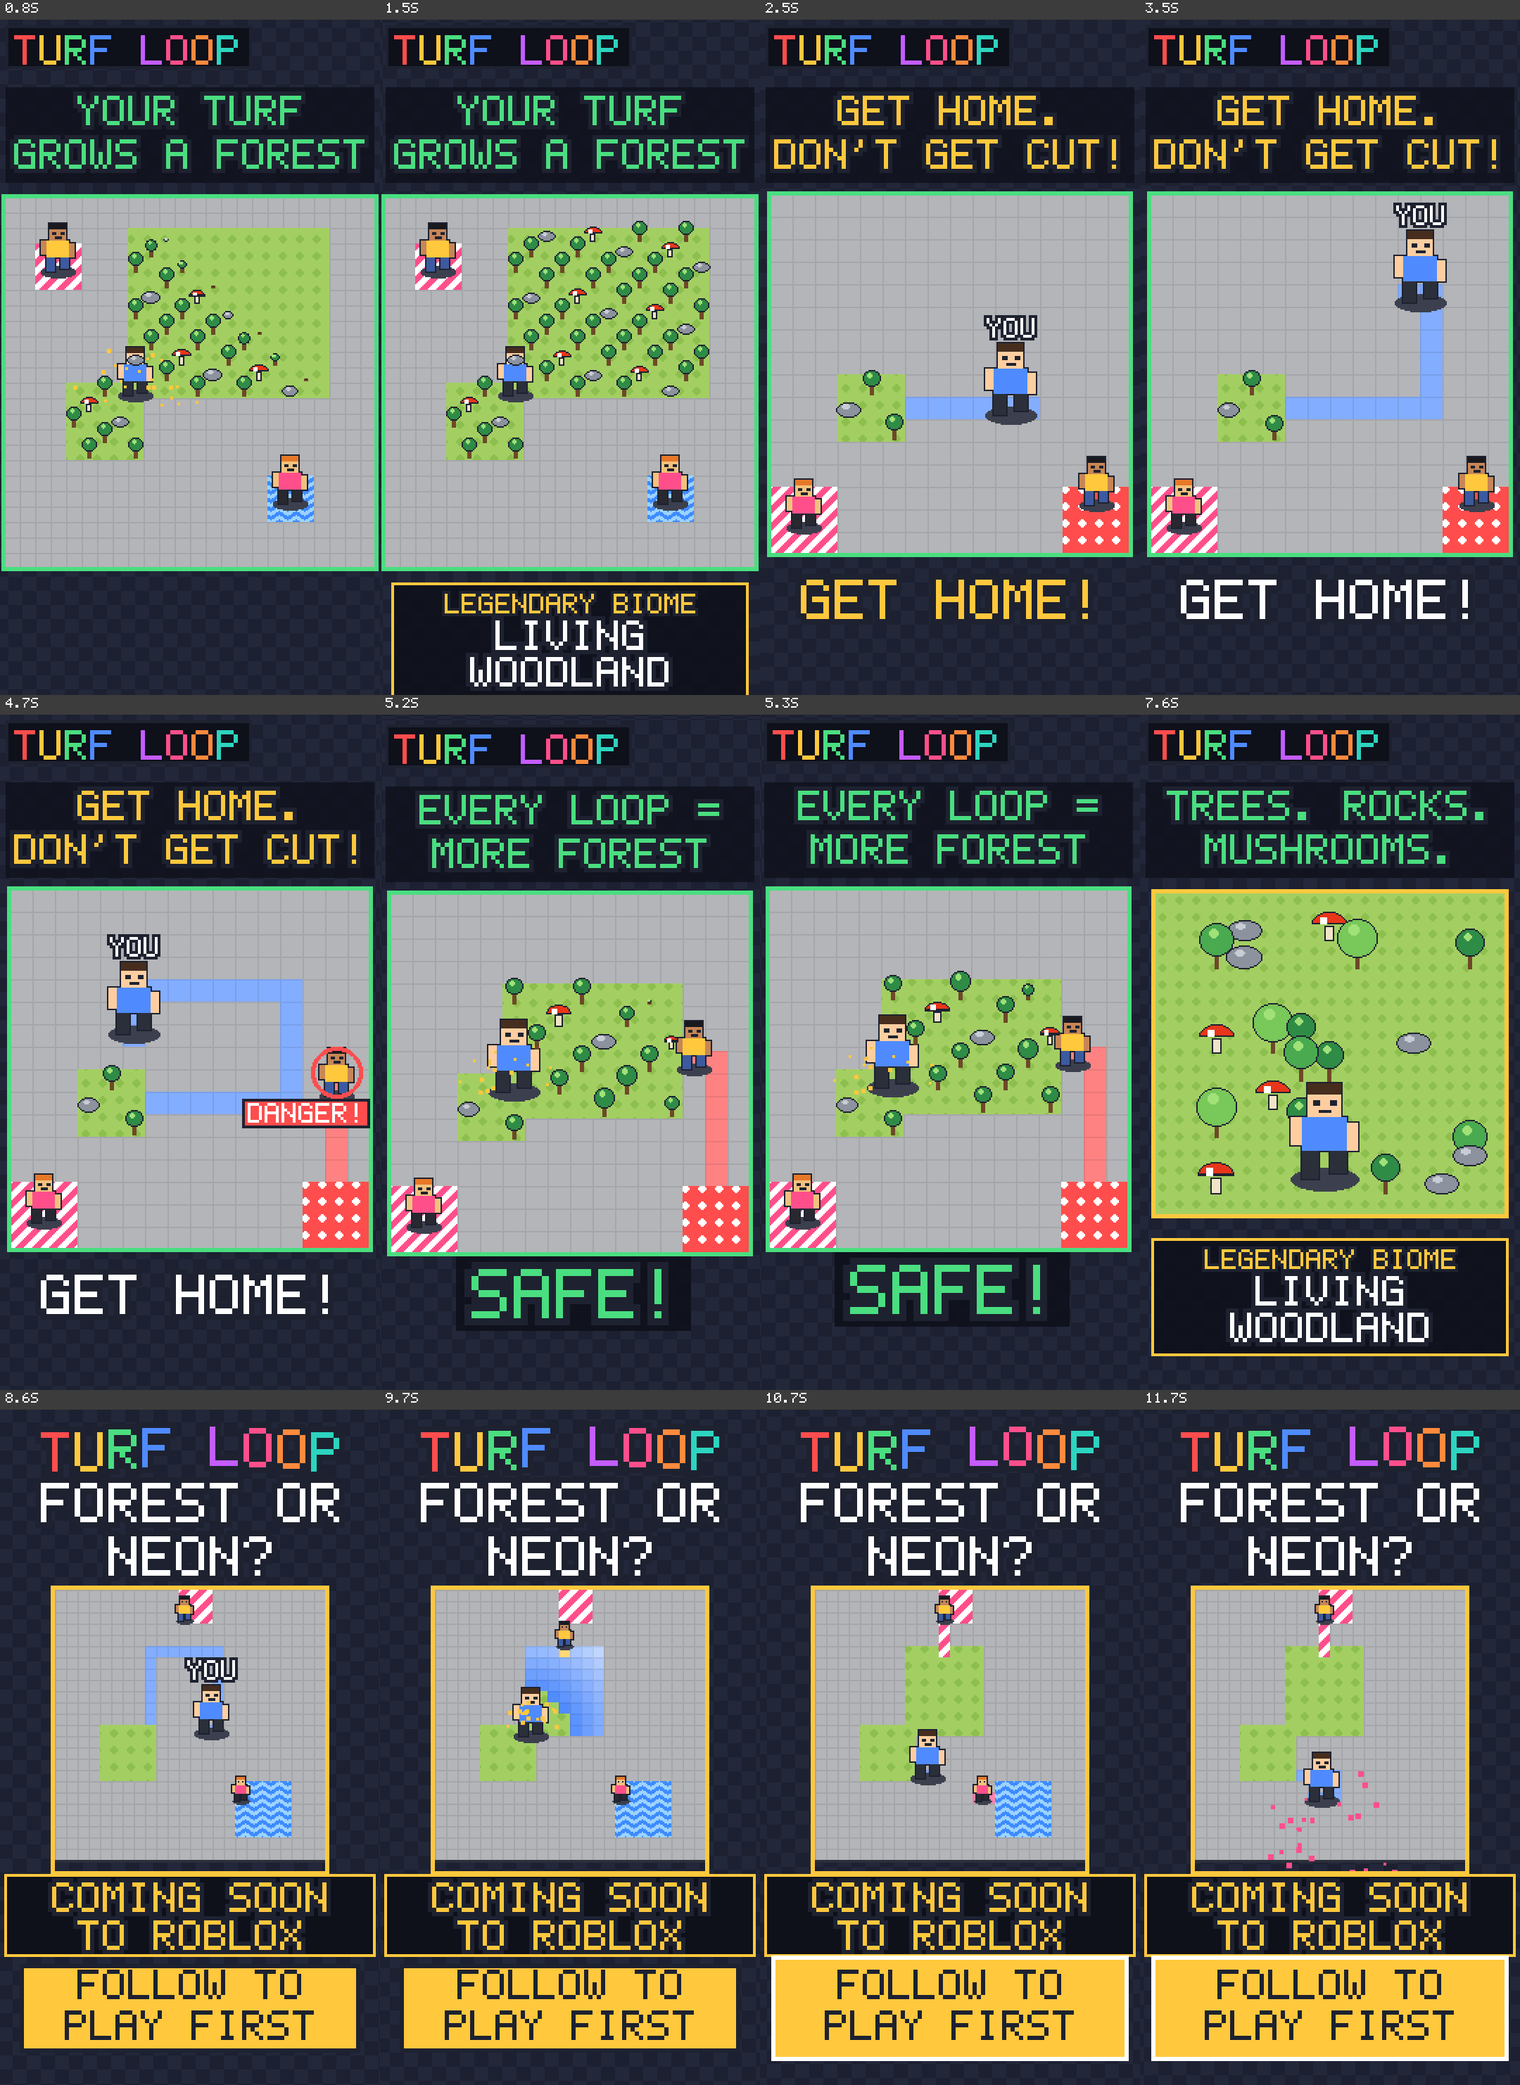
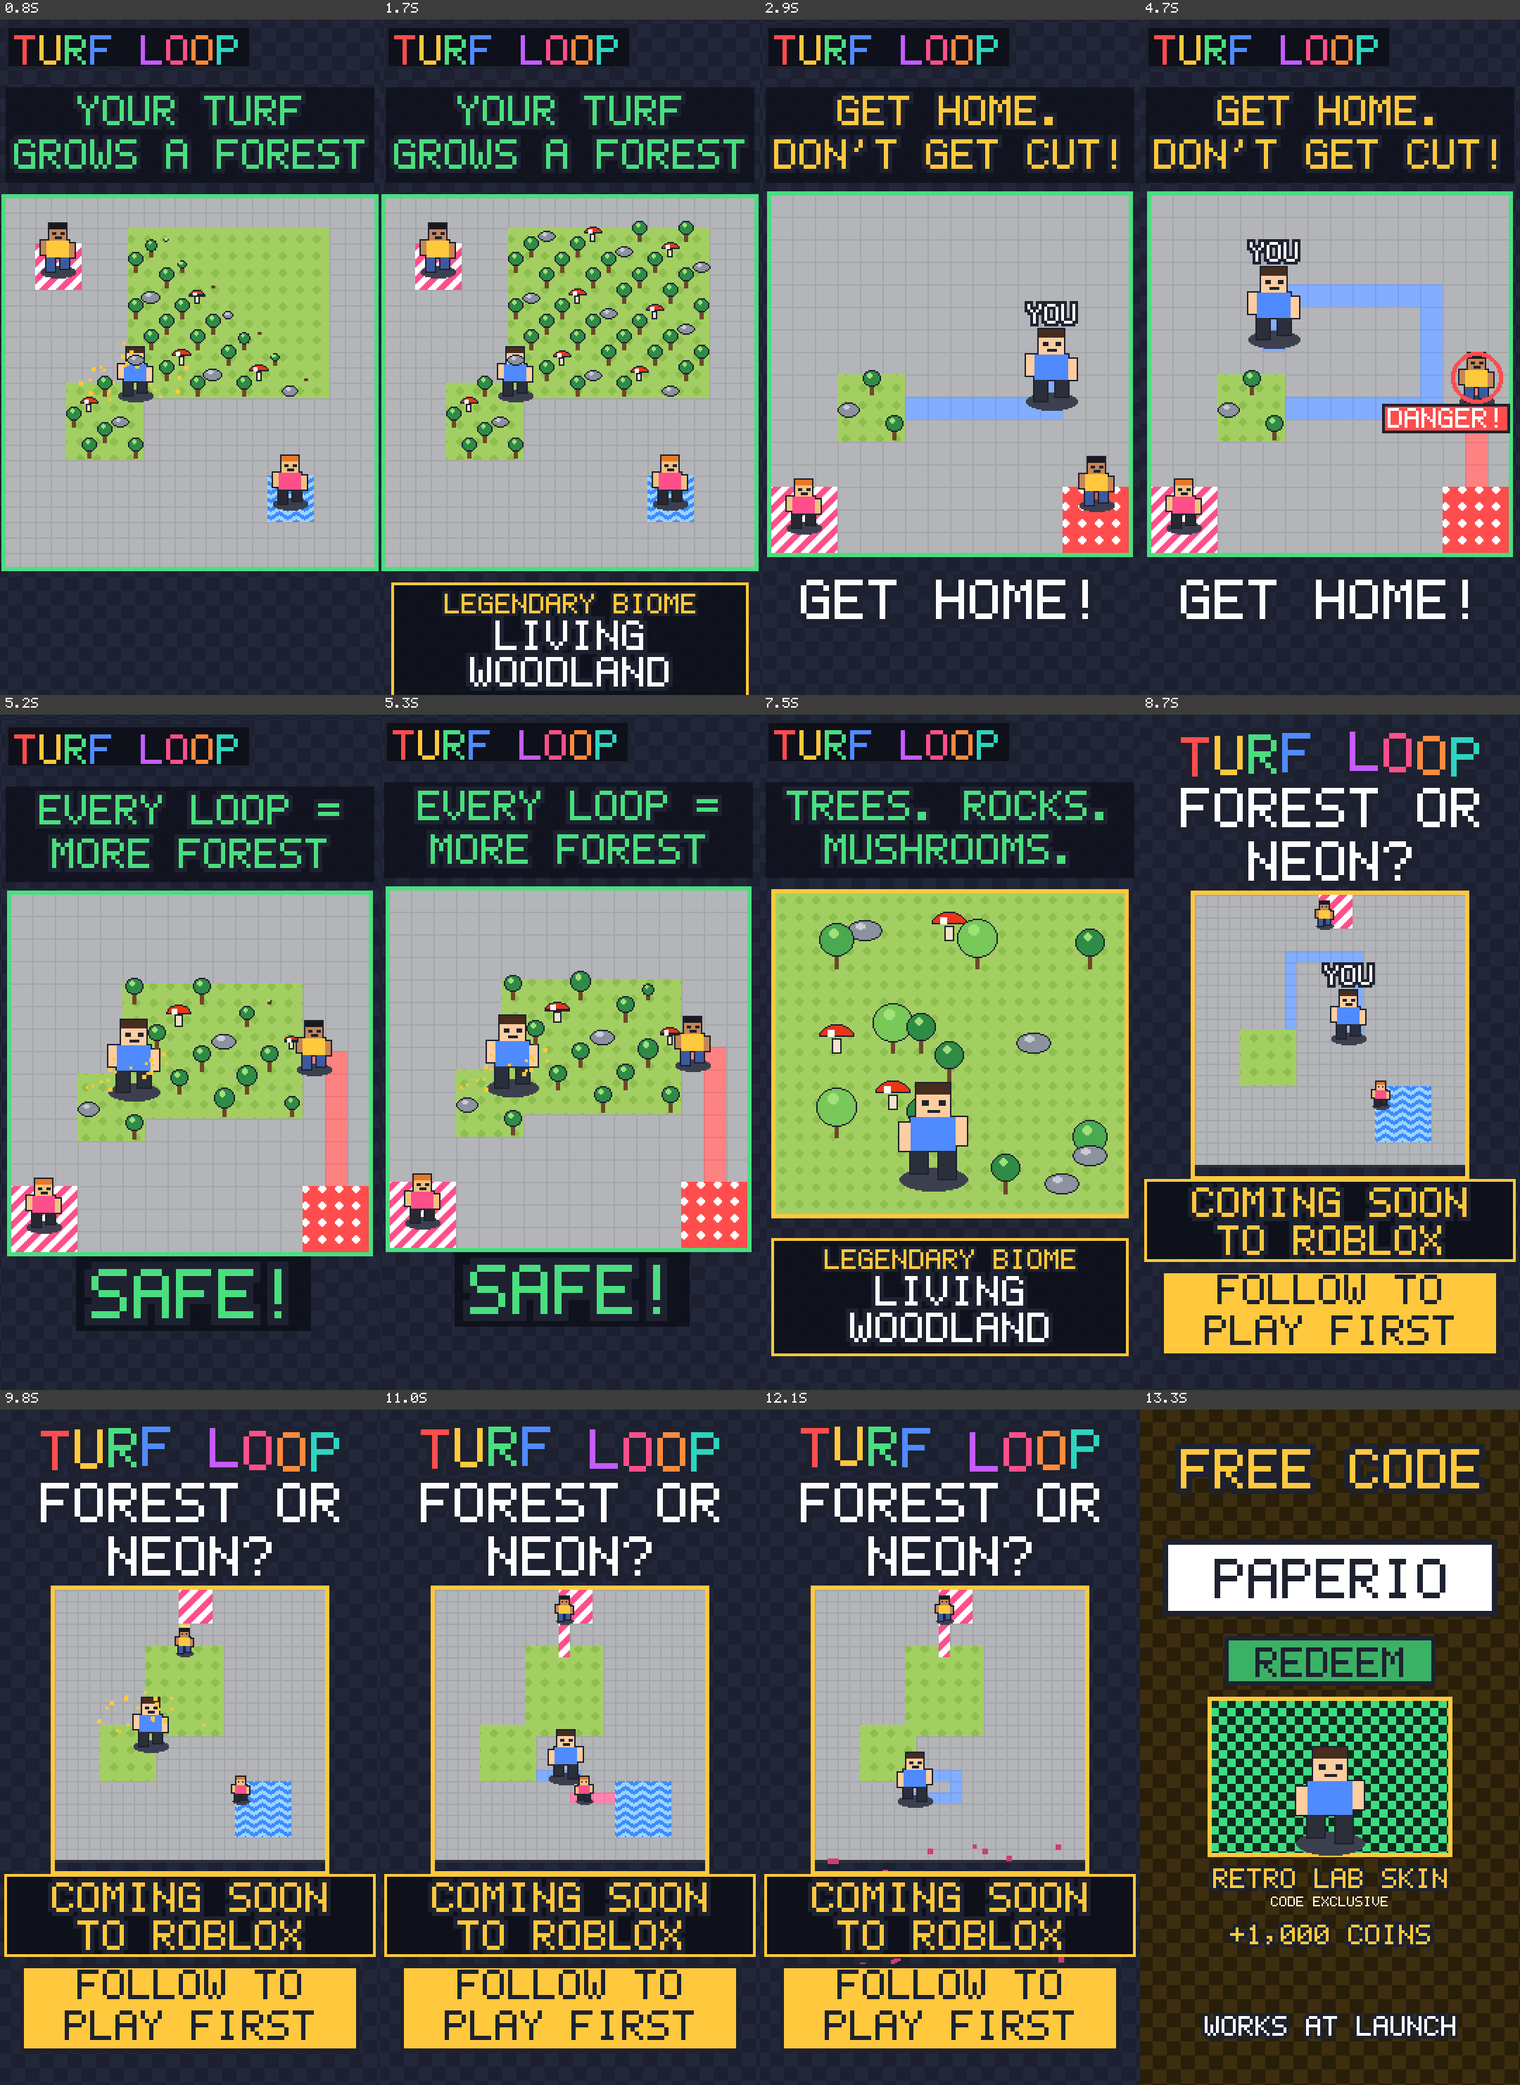
Promo codes: code card at the end of every short (PAPERIO/NEONRUSH/KINGME/BIGLOOP), c01 launch codes video; queue the in-game codes as HANDOFF item 0

diff --git a/tools/video/hype.py b/tools/video/hype.py
@@ -812,6 +812,89 @@ def avatar_end(v, b0, b1, skin=("#FF2E9A", "#00F0FF", "stripes", "pulse"), line=
     v.scene(b0, b1, fn, "end card: logo, COMING SOON TO ROBLOX, live looping mini-match, pulsing FOLLOW TO PLAY FIRST" + (f", {ask}" if ask else ""))
     v.sound(b0, "hit")
     v.sound(b0 + 0.02, "crown")
+    for hk in END_HOOKS:
+        hk(v, b1)
+
+
+# ------------------------------------------------------------ promo codes (owner 2026-11-22). NOT IN THE GAME YET:
+# docs/HANDOFF.md queue item "Promo codes from the videos" adds them (item rewards + 3 code-only cosmetics).
+PROMO_CODES = {  # code -> (item label, item kind, colours a/b, pattern, anim, coins, gems)
+    "PAPERIO": ("RETRO LAB SKIN", "skin", "#3DDC84", "#0F2A1A", "checker", None, 1000, 0),
+    "NEONRUSH": ("RUSH HOUR TRAIL", "trail", "#FF2E9A", "#FFE14D", "stripes", "flow", 0, 25),
+    "KINGME": ("ROYAL CARPET SKIN", "skin", "#B3261E", "#FFC83D", "stars", None, 0, 25),
+    "BIGLOOP": (None, None, None, None, None, None, 2500, 0),
+}
+CODE_FOR = {  # video id -> code (one code per theme, so redemptions show which kind of video brings players)
+    "v01": "PAPERIO", "v04": "PAPERIO", "s01": "PAPERIO", "s02": "PAPERIO", "s07": "PAPERIO", "s08": "PAPERIO",
+    "s13": "PAPERIO", "s14": "PAPERIO",
+    "s03": "NEONRUSH", "s11": "NEONRUSH", "s12": "NEONRUSH", "s15": "NEONRUSH",
+    "v07": "KINGME", "s04": "KINGME", "s05": "KINGME", "s06": "KINGME", "s10": "KINGME",
+    "v02": "BIGLOOP", "v03": "BIGLOOP", "v05": "BIGLOOP", "v06": "BIGLOOP", "s09": "BIGLOOP", "s16": "BIGLOOP",
+}
+CODE_BEATS = 3
+
+
+def draw_code(img, v, code, tl, tg):
+    """Pixel code box: the code types in on 16ths, REDEEM is pressed, the reward pops."""
+    label, kind, a, b, pat, anim, coins, gems = PROMO_CODES[code]
+    bg_checker(img, tg, c1=(40, 30, 10), c2=(60, 46, 14), speed=18)
+    d = ImageDraw.Draw(img)
+    draw_lines(img, "FREE CODE", 44, 4, YELLOW, DARK)
+    d.rectangle((16, 92, W - 17, 146), fill=WHITE, outline=DARK, width=4)
+    n = min(len(code), int(tl / (v.spb / 4)) + 1)
+    cur = "_" if int(tg * 4) % 2 == 0 and n < len(code) else ""
+    draw_text(img, code[:n] + cur, W / 2, 106, 4 if len(code) <= 8 else 3, DARK, None)
+    pressed = tl >= v.b(1.25)
+    g = 3 if pressed else 0
+    d.rectangle((60, 158 + g, W - 61, 192 + g), fill=shade(GREEN, 0.8) if pressed else GREEN, outline=DARK, width=3)
+    draw_text(img, "REDEEM", W / 2, 166 + g, 3, DARK, None)
+    if tl >= v.b(1.5):
+        k = ease_back(min(1.0, (tl - v.b(1.5)) / 0.25))
+        y = 206
+        if kind:
+            w_, h_ = int(170 * k), int(110 * k)
+            if w_ > 4:
+                pad = skin_board(w_, h_, a, b, pat, anim, tg)
+                img.paste(pad, (int(W / 2 - w_ / 2), y))
+                d.rectangle((W / 2 - w_ / 2 - 2, y - 2, W / 2 + w_ / 2 + 1, y + h_ + 1), outline=GOLD, width=3)
+                avatar(img, W / 2, y + h_ - 8, ((255, 206, 160), (70, 45, 30), (79, 139, 255), (43, 47, 58)), tg, moving=True, s=4)
+            draw_text(img, label, W / 2, y + 118, 2, GOLD, DARK)
+            draw_text(img, "CODE EXCLUSIVE", W / 2, y + 140, 1, CREAM, None)
+            y += 158
+        else:
+            y += 30
+        chips = ([f"+{coins:,} COINS"] if coins else []) + ([f"+{gems} GEMS"] if gems else [])
+        for i, c in enumerate(chips):
+            draw_text(img, c, W / 2, y + i * 30, 3 if not kind else 2, YELLOW if "COINS" in c else GEM, DARK)
+        if not kind:
+            for j, (dx, dy) in enumerate(((-34, 18), (34, 18), (0, 0))):  # a little pile of game coins
+                d.ellipse((W / 2 + dx - 26, 330 + dy, W / 2 + dx + 26, 382 + dy), fill=YELLOW, outline=DARK, width=4)
+                d.ellipse((W / 2 + dx - 14, 342 + dy, W / 2 + dx + 14, 370 + dy), outline=shade(YELLOW, 0.75), width=3)
+    draw_lines(img, "WORKS AT LAUNCH", 440, 2, WHITE, DARK)
+
+
+def code_card(v, b_end, code=None):
+    """Tail scene after the end card: the video's promo code (CODE_FOR) typed, redeemed and revealed."""
+    code = code or CODE_FOR.get(v.name.split("_")[0], "PAPERIO")  # new videos default to the flagship code
+    if not code:
+        return
+    v.scene(b_end, b_end + CODE_BEATS, lambda img, tl, tg: draw_code(img, v, code, tl, tg),
+            f"CODE CARD: {code} typed into a code box, REDEEM, reward: {PROMO_CODES[code][0] or ''} "
+            f"+{PROMO_CODES[code][6]} coins +{PROMO_CODES[code][7]} gems, WORKS AT LAUNCH")
+    v.flash(b_end, YELLOW, 0.1)
+    for i in range(len(code)):
+        v.sound(b_end + i / 4, "blip")
+    v.sound(b_end + 1.25, "click")
+    v.sound(b_end + 1.5, "levelup")
+    v.sound(b_end + 1.75, "coin")
+    v.min_dur = v.b(b_end + CODE_BEATS)
+    secs = (v.music or {}).get("sections") if isinstance(v.music, dict) else None
+    if secs is not None:
+        secs.append((b_end, b_end + CODE_BEATS + 1, {"kick", "snare", "hat", "bass", "arp"}))
+
+
+if code_card not in END_HOOKS:
+    END_HOOKS.append(code_card)
 
 
 def skin_of(skin):
@@ -2978,7 +3061,39 @@ def s16():
     v.dur = v.b(C + 9)
     return v
 
-ALL = {"s01": s01, "s02": s02, "s03": s03, "s04": s04, "s05": s05, "s06": s06, "s07": s07, "s08": s08, "s09": s09, "s10": s10, "s11": s11, "s12": s12, "s13": s13, "s14": s14, "s15": s15, "s16": s16}
+# ============================================================ c01 Launch codes (all four promo codes)
+def c01():
+    v = Video("c01_launch_codes", 108, 2 + 4 * CODE_BEATS + 4, music=dict(mode="major", root=62, seed=101, sections=[
+        (0, 2, {"kick", "hat", "arp"}), (2, 20, {"kick", "snare", "hat", "bass", "arp", "lead"})]))
+
+    def hook(img, tl, tg):
+        bg_checker(img, tg, c1=(40, 30, 10), c2=(60, 46, 14), speed=30)
+        k = ease_back(min(1.0, tl / 0.3))
+        draw_lines(img, "4 FREE CODES", 170 - (1 - k) * 60, 5, YELLOW, DARK)
+        draw_lines(img, "SKINS. TRAILS. COINS. GEMS.", 280, 3, WHITE, DARK)
+        avatar(img, W / 2, 420, OUTFITS[1], tg, moving=True, s=4, king=True)
+
+    v.scene(0, 2, hook, "HOOK: 4 FREE CODES / SKINS. TRAILS. COINS. GEMS. with a crowned avatar")
+    v.caption(0, 2, "SAVE THIS FOR LAUNCH DAY", y=58, size=3, color=WHITE)
+    v.sound(0, "hit")
+    for i, code in enumerate(("PAPERIO", "KINGME", "NEONRUSH", "BIGLOOP")):
+        b0 = 2 + i * CODE_BEATS
+        v.scene(b0, b0 + CODE_BEATS, (lambda c: lambda img, tl, tg: draw_code(img, v, c, tl, tg))(code), f"code {i + 1}/4: {code}")
+        v.flash(b0, YELLOW, 0.08)
+        for j in range(len(code)):
+            v.sound(b0 + j / 4, "blip")
+        v.sound(b0 + 1.25, "click")
+        v.sound(b0 + 1.5, "levelup")
+    end = 2 + 4 * CODE_BEATS
+    END_HOOKS.remove(code_card)  # this video IS the codes: no extra code card after its end card
+    try:
+        avatar_end(v, end, end + 4, skin=("#3DDC84", "#0F2A1A", "checker", None), ask="WHICH CODE FIRST?")
+    finally:
+        END_HOOKS.append(code_card)
+    return v
+
+
+ALL = {"c01": c01, "s01": s01, "s02": s02, "s03": s03, "s04": s04, "s05": s05, "s06": s06, "s07": s07, "s08": s08, "s09": s09, "s10": s10, "s11": s11, "s12": s12, "s13": s13, "s14": s14, "s15": s15, "s16": s16}
 
 if __name__ == "__main__":
     for n in sys.argv[1:] or list(ALL):

diff --git a/tools/video/engine.py b/tools/video/engine.py
@@ -822,6 +822,7 @@ class Video:
         tmp_v = os.path.join(out_dir, f"_{self.name}_v.mp4")
         tmp_a = os.path.join(out_dir, f"_{self.name}_a.wav")
         final = os.path.join(out_dir, f"{self.name}.mp4")
+        self.dur = max(self.dur, getattr(self, "min_dur", 0.0))  # tail scenes (code card) extend the video
         frames = int(self.dur * FPS)
         ff = subprocess.Popen(["ffmpeg", "-y", "-loglevel", "error", "-f", "rawvideo", "-pix_fmt", "rgb24",
                                "-s", f"{W}x{H}", "-r", str(FPS), "-i", "-", "-vf",
@@ -966,6 +967,9 @@ def arena_scene(video, ar, b0, x0, y0, cp, view=None, hero=None, fx=None, sim_sp
     return fn
 
 
+END_HOOKS = []  # called as hook(video, b_end) after every end card (hype.py adds the promo-code card)
+
+
 def end_card(video, b0, b1, line1="COMING SOON TO ROBLOX", line2="FOLLOW TO PLAY FIRST", line3=None,
              colors=(PLAYERS[7], PLAYERS[0])):
     t0 = video.b(b0)
@@ -992,6 +996,8 @@ def end_card(video, b0, b1, line1="COMING SOON TO ROBLOX", line2="FOLLOW TO PLAY
     video.scene(b0, b1, fn, "end card: logo, live mini-match, " + line1 + " / " + line2 + (" / " + line3 if line3 else ""))
     video.sound(b0, "hit")
     video.sound(b0 + 0.02, "crown")
+    for hk in END_HOOKS:
+        hk(video, b1)
 
 
 def path_from(points):

diff --git a/tools/video/videos.py b/tools/video/videos.py
@@ -8,6 +8,7 @@ from PIL import Image, ImageDraw, ImageOps
 
 sys.path.insert(0, os.path.dirname(__file__))
 from engine import *  # noqa: E402,F403
+import hype  # noqa: E402,F401  (registers the promo-code card after every end card)
 
 ROOT = os.path.abspath(os.path.join(os.path.dirname(__file__), "..", ".."))
 OUT = os.path.join(ROOT, "marketing", "videos", "out")

diff --git a/docs/HANDOFF.md b/docs/HANDOFF.md
@@ -20,6 +20,23 @@ Two read-only reviews found **four Critical** problems (free gamepasses by spoof
 Paid Sky Chest spin, strength of 2x Speed, bot tag, Starter Pack repeats, week-two content, title, art briefs for the grey floor. Do not decide these for him; do apply his answers quickly.
 
 ## 5. Queue, in order
+0. **Promo codes from the videos: do this first (owner, 2026-11-22: "next time we work on the game we put those codes in").** Every promo short in `marketing/videos/` ends on a code card that says "WORKS AT LAUNCH", so these must work before any video is posted.
+   - Codes (the video side is `PROMO_CODES` in `tools/video/hype.py`):
+     - `PAPERIO`: Retro Lab skin + 1,000 coins.
+     - `NEONRUSH`: Rush Hour trail + 25 gems.
+     - `KINGME`: Royal Carpet skin + 25 gems.
+     - `BIGLOOP`: 2,500 coins.
+   - New code-only cosmetics in `Catalog.luau`: exclusive tier, `source = "code"`, never sold, shown in the shop's Exclusive section as "Code".
+     - skin `code_retro_lab` "Retro Lab": #3DDC84 / #0F2A1A, checker.
+     - trail `code_rush_hour` "Rush Hour": #FF2E9A / #FFE14D, stripes.
+     - skin `code_royal_carpet` "Royal Carpet": #B3261E / #FFC83D, stars.
+   - Today `Catalog.codes` rewards are a single currency (`{ currency, amount }`) and `RewardService.redeemCode` only calls `EconomyService.addCoins` or `addGems`. Change the type to allow coins + gems + item ids together, keeping the old shape working for RELEASE, TURF and CROWNRUSH. Grant items through the same path the battle pass uses for item rewards. If the item is already owned, still pay the currency. One redemption per player stays as it is (`profile.codes`).
+   - Log each redemption with its code (AnalyticsService custom event). Each code belongs to one kind of video (`CODE_FOR` in hype.py), so this shows which videos bring players.
+   - Tests:
+     - A spec for the reward shape.
+     - A headless redeem: item plus coins granted once, a second redeem rejected, an already-owned item still pays its currency.
+     - Then `check.mjs`, `xref`, `headless`, and a Studio redeem of each code.
+   - Ask the owner: should the codes expire (suggestion: 30 days after launch, through `Catalog.codeRelease`), and are the amounts right?
 1. Finish and verify the security fixes (section 3). Then one solo Studio pass on the local build: walk, claim, get cut, respawn, press Reset during a death, try to stand outside the wall. Honest play must produce no snap-backs.
 2. ~~Apply the owner's answers from `docs/DECISIONS.md`.~~ Done 2026-11-16 (see `docs/PROGRESS.md`).
 3. Done 2026-11-16 (commit 4ccf764). Balance changes from `docs/BALANCE.md` that need no owner input: rebirth growth 2 → 1.5 through a new `Config.Rebirth.Growth`; playtime rewards and the gentle-bot window keyed to the profile instead of the session; Sky Chest free rate; rare price. Each is a Config value or a small server change with a spec line.

diff --git a/docs/PROGRESS.md b/docs/PROGRESS.md
@@ -531,3 +531,19 @@ Shared hype.py: corner brand tag from frame 0, live mini-match behind every end 
 - New: s16_brain_on_turf (idea #20). A FEEL-GOOD meter beside a pixel brain fills on each claim, through three reasons shown in play: CLOSURE, RISK and REWARD. 108 BPM, 12.2 s.
 - Grades (subagents): s11 6, s12 6, s13 6, s16 6. There is still only one 7 (s10). Fix lists are in `marketing/videos/GRADES.md`. Next shared fixes: 2x-tall end-card option buttons, and at most 2 text blocks in the first second.
 - Checked: I read each contact sheet after rendering and fixed the layout bugs I found (plate overflow, the zoom crop, 3-line captions over the board). Not checked: audio by ear. Nothing was posted, and the game code is untouched.
+
+## Lead session, 2026-11-22: promo codes in the videos (owner request)
+- Owner asked for special codes in the videos that give limited skins, coins and gems, and for them to be added to the game in the next game session.
+- Video side (`tools/video/hype.py`, `engine.py`, `videos.py`):
+  - `PROMO_CODES` / `CODE_FOR`.
+  - A code card after every end card (engine `END_HOOKS`; `videos.py` imports hype to register it).
+  - `c01_launch_codes` with all four codes.
+  - All 23 videos re-rendered, each ends on its code.
+- Codes:
+  - PAPERIO: Retro Lab skin + 1,000 coins.
+  - NEONRUSH: Rush Hour trail + 25 gems.
+  - KINGME: Royal Carpet skin + 25 gems.
+  - BIGLOOP: 2,500 coins.
+  - Amounts are in line with the existing codes (RELEASE 1,000 coins, TURF 25 gems, CROWNRUSH 50 gems).
+- Game side NOT done, as the owner asked: it is queue item 0 in `docs/HANDOFF.md`, with the full spec. The current code reward type only supports one currency, so item rewards plus 3 code-only cosmetics are needed.
+- Open for the owner: should the codes expire (suggestion: 30 days after launch), and are the amounts right?

diff --git a/marketing/videos/GRADES.md b/marketing/videos/GRADES.md
@@ -804,3 +804,14 @@ Per video:
 **Pattern (now 69 grades; one 7, s10).** The teaching plate moved clarity up only in s11 and s16 (to 6). New repeated complaints: option chips on the end card are too small (all four), and stacked text blocks in the hook (three of four). Next run's shared fixes: 2x-tall filled option buttons in `avatar_end`, and never more than 2 text blocks in the first second (the teach plate comes in after 0.9 s).
 
 Next run: s11 and s12 (last rounds), s13 (R5), s16 (R2). s15 is at R1, s14 at R1, s09 at R3 and s06 at R4. Then idea #21 (Pick a Colour, Get Your Playstyle).
+
+## Promo codes (2026-11-22, owner request)
+Every video now ends with a 3-beat code card: the code is typed in, REDEEM is pressed, the reward is shown, then "WORKS AT LAUNCH". The card comes from `code_card` in hype.py through `END_HOOKS`.
+- One code per theme (`CODE_FOR`):
+  - PAPERIO (nostalgia and cosmetic videos): Retro Lab skin + 1,000 coins.
+  - NEONRUSH (pass and progression): Rush Hour trail + 25 gems.
+  - KINGME (crown and fights): Royal Carpet skin + 25 gems.
+  - BIGLOOP (strategy): 2,500 coins.
+- New videos default to PAPERIO.
+- `c01_launch_codes` is new: all four codes in one video. Not graded yet.
+- The codes are NOT in the game yet. They are item 0 of the queue in docs/HANDOFF.md. Don't post anything until they work.
